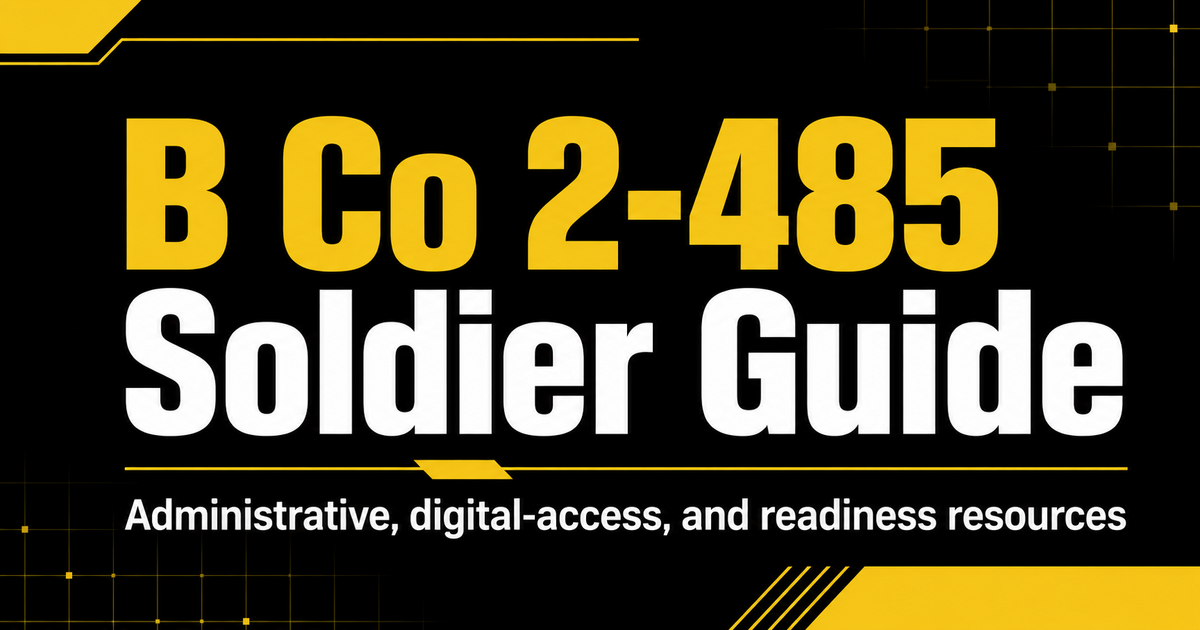
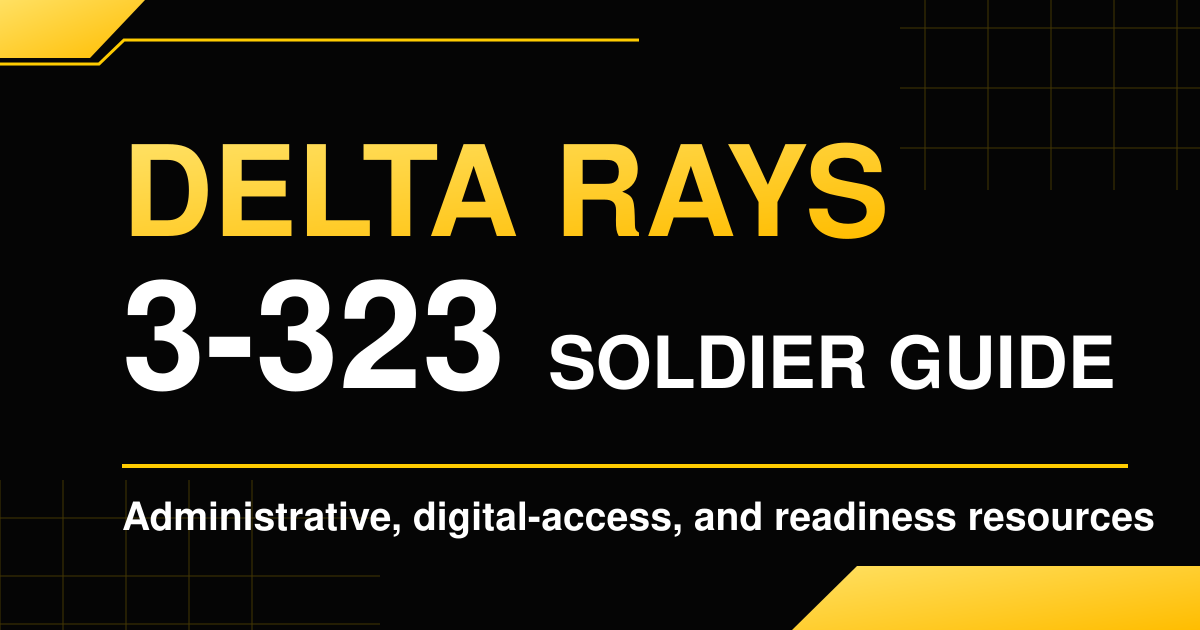
Rebrand Soldier Guide for Delta Rays 3-323

diff --git a/app/page.tsx b/app/page.tsx
@@ -494,7 +494,7 @@ export default function Home() {
     <a className="skip-link" href="#main-content">Skip to guide content</a>
     {menuOpen && <button className="sidebar-scrim" onClick={() => setMenuOpen(false)} aria-label="Close guide menu"></button>}
     <aside className={menuOpen ? "sidebar mobile-open" : "sidebar"} aria-label="Guide navigation">
-      <div className="sidebar-brand"><span className="brand-block">B</span><div className="brand-copy"><strong>B Co 2-485</strong><small>Soldier Guide</small></div><button className="collapse-button" onClick={() => { setSidebarCollapsed((current) => !current); setMenuOpen(false); }} aria-label={sidebarCollapsed ? "Expand guide menu" : "Collapse guide menu"} aria-expanded={!sidebarCollapsed}>{sidebarCollapsed ? "›" : "‹"}</button></div>
+      <div className="sidebar-brand"><span className="brand-block">D</span><div className="brand-copy"><strong>Delta Rays 3-323</strong><small>Soldier Guide</small></div><button className="collapse-button" onClick={() => { setSidebarCollapsed((current) => !current); setMenuOpen(false); }} aria-label={sidebarCollapsed ? "Expand guide menu" : "Collapse guide menu"} aria-expanded={!sidebarCollapsed}>{sidebarCollapsed ? "›" : "‹"}</button></div>
       <p className="sidebar-tagline">Administrative, digital-access, and readiness resources<span className="creator-line">Created by an NCO for Reserve Soldiers.</span></p>
       <nav className="guide-nav">
         <button className={activeId ? "home-nav" : "home-nav active"} onClick={selectHome} aria-current={activeId ? undefined : "page"} title="Home"><span>⌂</span><em>Home</em></button>
@@ -521,19 +521,19 @@ export default function Home() {
             <section className="steps" id="steps">{active.steps.map((step, index) => <div className="step" key={step.title}><div className="step-number">{index + 1}</div><div className="step-copy"><h2>{step.title}</h2><p>{step.text}</p>{(step.links ?? (step.link ? [step.link] : [])).length > 0 && <div className="step-links">{(step.links ?? (step.link ? [step.link] : [])).map((link) => <a className="official-link" key={link.label} href={link.href} target="_blank" rel="noreferrer">↗ {link.label}</a>)}</div>}</div>{step.expect ? <div className="step-expect"><strong>WHAT YOU SHOULD SEE</strong><span>{step.expect}</span></div> : <div className="screen-placeholder" aria-label={`Visual pending for step ${index + 1}`}><span>VISUAL PENDING</span><i></i><i></i><i></i></div>}</div>)}</section>
             <section className="problems" id="problems"><div className="problem-heading"><span>!</span><h2>Common problems</h2></div><ul>{active.problems.map((problem) => <li key={problem}>{problem}</li>)}</ul></section>
             <section className="official-sources" id="sources"><h2>Official resources</h2>{active.official.length ? <div>{active.official.map((link) => <a key={link.label} href={link.href} target="_blank" rel="noreferrer">{link.label}<span>↗</span></a>)}</div> : <p>Official sources have not yet been attached to this draft. Use current Army and local command guidance before completing the task.</p>}{active.helpful?.length ? <div className="helpful-sources"><h3>Additional help — nonofficial</h3><p>These independent sites can help with troubleshooting, but Army and Microsoft sources take precedence.</p><div>{active.helpful.map((link) => <a key={link.label} href={link.href} target="_blank" rel="noreferrer">{link.label}<span>↗</span></a>)}</div></div> : null}{active.legacy?.length ? <div className="legacy-sources"><h3>Legacy training files</h3><p>These older files are retained for writing and leader-development concepts. They are not current policy; outdated fitness references, links, screenshots, and procedures remain inside them.</p><div>{active.legacy.map((resource) => <a key={resource.label} href={resource.href} download><strong>{resource.label}<span>↓</span></strong><small>{resource.note}</small></a>)}</div></div> : null}</section>
-            <footer className="article-footer"><strong>B Co 2-485 Soldier Guide</strong><p>Independently created, unofficial reference. This site is not affiliated with, endorsed by, or an official publication of the Department of the Army or B Co 2-485. Current Army regulations, official forms, system instructions, and applicable local policy take precedence.</p><small>Created by an NCO for Reserve Soldiers. No login is required. Optional support submissions are processed through Formspree; do not include PII, CUI, medical, financial, or operationally sensitive information.</small></footer>
+            <footer className="article-footer"><strong>Delta Rays 3-323 Soldier Guide</strong><p>Independently created, unofficial reference. This site is not affiliated with, endorsed by, or an official publication of the Department of the Army or Delta Rays 3-323. Current Army regulations, official forms, system instructions, and applicable local policy take precedence.</p><small>Created by an NCO for Reserve Soldiers. No login is required. Optional support submissions are processed through Formspree; do not include PII, CUI, medical, financial, or operationally sensitive information.</small></footer>
           </div>
           <aside className="on-page"><strong>ON THIS PAGE</strong><a href="#before">Before you begin</a><a href="#steps">Instructions</a><a href="#problems">Common problems</a><a href="#sources">Sources</a><button onClick={selectHome}>Return home →</button></aside>
         </article> : <article className="home-page">
-          <div className="home-intro"><span className="article-eyebrow">SOLDIER ADMIN RESOURCE</span><h1>Welcome to the B Co 2-485 Soldier Guide</h1><p>Step-by-step administrative, digital-access, and readiness resources created to help Reserve Soldiers complete common Army tasks.</p></div>
+          <div className="home-intro"><span className="article-eyebrow">SOLDIER ADMIN RESOURCE</span><h1>Welcome to the Delta Rays 3-323 Soldier Guide</h1><p>Step-by-step administrative, digital-access, and readiness resources created to help Reserve Soldiers complete common Army tasks.</p></div>
           <div className="home-search"><span aria-hidden="true">⌕</span><input value={query} onChange={(event) => setQuery(event.target.value)} placeholder="Search by task, system, or topic" aria-label="Search guides" />{hasQuery && <button type="button" onClick={() => setQuery("")} aria-label="Clear search">Clear</button>}</div>
           {hasQuery && <section className="home-results" aria-live="polite"><div className="home-results-heading"><strong>{searchResults.length} {searchResults.length === 1 ? "guide" : "guides"} found</strong><small>Select a result to open its instructions.</small></div>{searchResults.length ? <div className="home-result-list">{searchResults.map((guide) => <button key={guide.id} onClick={() => selectGuide(guide.id)}><span><strong>{guide.title}</strong><small>{sections.find((section) => section.id === guide.section)?.title} · {guide.time}</small></span><b>Open →</b></button>)}</div> : <div className="home-no-results"><strong>No guides match “{query.trim()}”</strong><p>Try AVD, IPPS-A, DTS, PDF, counseling, or NCOER.</p></div>}</section>}
           <div className="home-stats"><div><strong>{guides.length}</strong><span>available guides</span></div><div><strong>{guides.filter((guide) => guide.status === "source-verified").length}</strong><span>source-verified</span></div><div><strong>No login</strong><span>required</span></div></div>
           <section className="home-disclaimer"><span>i</span><div><strong>Independent project—not an official Army or unit publication</strong><p>Created by an NCO for Reserve Soldiers. Verify requirements against current Army regulations, official forms, system instructions, and applicable local policy.</p></div></section>
           <section className="home-start"><span>◎</span><div><strong>Start with a task</strong><p>Search above or expand a section in the left menu to find the guide you need.</p></div></section>
-          <footer className="article-footer home-footer"><strong>B Co 2-485 Soldier Guide</strong><p>This site is not affiliated with, endorsed by, or an official publication of the Department of the Army or B Co 2-485.</p><small>No login is required. Optional support submissions are processed through Formspree; do not include PII, CUI, medical, financial, or operationally sensitive information.</small></footer>
+          <footer className="article-footer home-footer"><strong>Delta Rays 3-323 Soldier Guide</strong><p>This site is not affiliated with, endorsed by, or an official publication of the Department of the Army or Delta Rays 3-323.</p><small>No login is required. Optional support submissions are processed through Formspree; do not include PII, CUI, medical, financial, or operationally sensitive information.</small></footer>
         </article>}
     </section>
-    {supportType && <div className="support-modal-backdrop" role="presentation" onMouseDown={(event) => { if (event.target === event.currentTarget) closeSupport(); }}><section className="support-modal" role="dialog" aria-modal="true" aria-labelledby="support-dialog-title"><button className="support-close" type="button" onClick={closeSupport} aria-label="Close support form">×</button><div className="support-modal-content">{supportStatus === "success" ? <div className="support-success" role="status"><span aria-hidden="true">✓</span><h2 id="support-dialog-title">Submission received</h2><p>Thank you. Your {supportType === "feedback" ? "feedback" : "request"} was sent successfully.</p><button type="button" onClick={closeSupport}>Close</button></div> : <><span className="support-eyebrow">SUPPORT</span><h2 id="support-dialog-title">{supportType === "feedback" ? "Submit feedback" : "Request a guide or feature"}</h2><p className="support-intro">Help improve the Soldier Guide. Do not submit PII, CUI, medical, financial, or operationally sensitive information.</p><form onSubmit={submitSupport}><input type="hidden" name="subject" value="Feedback or Request for B Co Soldier Guide" /><input className="support-honeypot" type="text" name="_gotcha" tabIndex={-1} autoComplete="off" aria-hidden="true" /><label>Subject<input ref={supportSubjectRef} type="text" name="request_subject" value={supportSubject} onChange={(event) => setSupportSubject(event.target.value)} maxLength={120} required placeholder={supportType === "feedback" ? "What is your feedback about?" : "What would you like added?"} /></label><label>Details<textarea name="details" value={supportDetails} onChange={(event) => setSupportDetails(event.target.value)} maxLength={2500} required rows={7} placeholder="Describe your feedback or request. Include the guide name or task when applicable." /></label><label>Submitted by<input type="text" name="submitted_by" value={submittedBy} onChange={(event) => setSubmittedBy(event.target.value)} maxLength={80} required placeholder="Name or identifier" /></label>{supportStatus === "error" && <p className="support-error" role="alert">The submission could not be sent. Check your connection and try again.</p>}<div className="support-form-actions"><button className="support-cancel" type="button" onClick={closeSupport} disabled={supportStatus === "submitting"}>Cancel</button><button className="support-submit" type="submit" disabled={supportStatus === "submitting"}>{supportStatus === "submitting" ? "Sending…" : "Submit"}</button></div></form></>}</div></section></div>}
+    {supportType && <div className="support-modal-backdrop" role="presentation" onMouseDown={(event) => { if (event.target === event.currentTarget) closeSupport(); }}><section className="support-modal" role="dialog" aria-modal="true" aria-labelledby="support-dialog-title"><button className="support-close" type="button" onClick={closeSupport} aria-label="Close support form">×</button><div className="support-modal-content">{supportStatus === "success" ? <div className="support-success" role="status"><span aria-hidden="true">✓</span><h2 id="support-dialog-title">Submission received</h2><p>Thank you. Your {supportType === "feedback" ? "feedback" : "request"} was sent successfully.</p><button type="button" onClick={closeSupport}>Close</button></div> : <><span className="support-eyebrow">SUPPORT</span><h2 id="support-dialog-title">{supportType === "feedback" ? "Submit feedback" : "Request a guide or feature"}</h2><p className="support-intro">Help improve the Soldier Guide. Do not submit PII, CUI, medical, financial, or operationally sensitive information.</p><form onSubmit={submitSupport}><input type="hidden" name="subject" value="Feedback or Request for Delta Rays 3-323 Soldier Guide" /><input className="support-honeypot" type="text" name="_gotcha" tabIndex={-1} autoComplete="off" aria-hidden="true" /><label>Subject<input ref={supportSubjectRef} type="text" name="request_subject" value={supportSubject} onChange={(event) => setSupportSubject(event.target.value)} maxLength={120} required placeholder={supportType === "feedback" ? "What is your feedback about?" : "What would you like added?"} /></label><label>Details<textarea name="details" value={supportDetails} onChange={(event) => setSupportDetails(event.target.value)} maxLength={2500} required rows={7} placeholder="Describe your feedback or request. Include the guide name or task when applicable." /></label><label>Submitted by<input type="text" name="submitted_by" value={submittedBy} onChange={(event) => setSubmittedBy(event.target.value)} maxLength={80} required placeholder="Name or identifier" /></label>{supportStatus === "error" && <p className="support-error" role="alert">The submission could not be sent. Check your connection and try again.</p>}<div className="support-form-actions"><button className="support-cancel" type="button" onClick={closeSupport} disabled={supportStatus === "submitting"}>Cancel</button><button className="support-submit" type="submit" disabled={supportStatus === "submitting"}>{supportStatus === "submitting" ? "Sending…" : "Submit"}</button></div></form></>}</div></section></div>}
   </main>;
 }

diff --git a/app/layout.tsx b/app/layout.tsx
@@ -9,10 +9,10 @@ const publicAsset = (path: string) => `${basePath}${path}`;
 
 export const metadata: Metadata = {
   metadataBase: new URL(siteUrl),
-  title: "B Co 2-485 Soldier Guide",
-  description: "Administrative, digital-access, and readiness resources for B Co 2-485 Soldiers.",
-  openGraph: { title: "B Co 2-485 Soldier Guide", description: "Administrative, digital-access, and readiness resources.", url: siteUrl, images: [publicAsset("/og.png")] },
-  twitter: { card: "summary_large_image", title: "B Co 2-485 Soldier Guide", description: "Administrative, digital-access, and readiness resources.", images: [publicAsset("/og.png")] },
+  title: "Delta Rays 3-323 Soldier Guide",
+  description: "Administrative, digital-access, and readiness resources for Delta Rays 3-323 Soldiers.",
+  openGraph: { title: "Delta Rays 3-323 Soldier Guide", description: "Administrative, digital-access, and readiness resources.", url: siteUrl, images: [publicAsset("/og.png")] },
+  twitter: { card: "summary_large_image", title: "Delta Rays 3-323 Soldier Guide", description: "Administrative, digital-access, and readiness resources.", images: [publicAsset("/og.png")] },
   icons: { icon: publicAsset("/favicon.svg"), shortcut: publicAsset("/favicon.svg") },
 };
 export default function RootLayout({ children }: Readonly<{ children: React.ReactNode }>) { return <html lang="en"><body>{children}</body></html>; }

diff --git a/README.md b/README.md
@@ -1,4 +1,4 @@
-# B Co 2-485 Soldier Guide
+# Delta Rays 3-323 Soldier Guide
 
 An unofficial, independently created administrative guide for Reserve Soldiers
 and NCOs. The same source supports two hosting targets:
